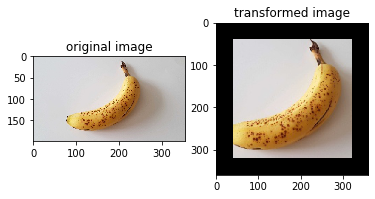
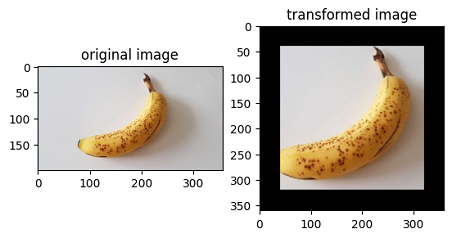
update en file and image in tutorials

diff --git a/tutorials/source_en/advanced/dataset/eager.md b/tutorials/source_en/advanced/dataset/eager.md
@@ -1,72 +1,67 @@
-# Lightweight Data Processing
-
 <a href="https://gitee.com/mindspore/docs/blob/master/tutorials/source_en/advanced/dataset/eager.md" target="_blank"><img src="https://mindspore-website.obs.cn-north-4.myhuaweicloud.com/website-images/master/resource/_static/logo_source_en.png"></a>
 
-When resource conditions permit, in order to pursue higher performance, data augmentation operators are generally executed in the data pipeline mode.
+# Lightweight Data Processing
 
-The biggest character of execution based on data pipelinemode users have to define the `map` operator. As shown in the figure below, the `Resize`, `Crop`, `HWC2CHW` operators are scheduled by the `map` operator, which is responsible for starting and executing the given data augmentation operators, and mapping and transforming the data of the data pipeline.
+When resource conditions permit, in order to pursue higher performance, data transforms are generally executed in the data pipeline mode.
+
+The biggest character of execution based on pipeline mode users have to define the `map` operator. As shown in the figure below, the `Resize`, `Crop`, `HWC2CHW` operators are scheduled by the `map`, which is responsible for starting and executing the given transform, and mapping and transforming the data of Pipeline.
 
 ![pipelinemode1](./images/pipeline_mode_en.jpeg)
 
-Although constructing a data pipeline can process input data in batches, the API design of the data pipeline requires the user to start from constructing the input source, and gradually defines the individual processing operators in the data pipeline. Only when defining the `map` will it involve data augmentation operators that are highly related to the user input data.
+Although constructing a data pipeline can process input data in batches, the API design of the data pipeline requires the user to start from constructing the input source, and gradually defines the individual processing operators in the data pipeline. Only when defining the `map`, will it involve data augmentation operators that are highly related to the user input data.
 
 Undoubtedly, users only want to focus on the code that is most relevant to them, but other codes with less relevance add unnecessary burdens to the user throughout the code scene.
 
 Therefore, MindSpore provides a lightweight data processing way, called Eager mode.
 
-In the Eager mode, the execution of data augmentations will not rely on the `map` operator. Instead, the data augmentation operator is executed in the form of a functional call. The code will be simpler and the results are obtained immediately. It is recommended to be used in lightweight scenarios such as small data augmentation experiments and model inference.
+In the Eager mode, the execution of Transforms will not rely on constructing the data pipeline `map`. Instead, Transforms is executed in the form of a functional call. The code will be simpler and the results are obtained immediately. It is recommended to be used in lightweight scenarios such as small data augmentation experiments and model inference.
 
 ![eagermode1](./images/eager_mode_en.jpeg)
 
-MindSpore currently supports executing various data augmentation operators in the Eager mode, as shown below. For more details, please refer to the API documentation.
+MindSpore currently supports executing various Transforms in the Eager mode, as shown below. For more details, please refer to the API documentation.
 
 - [vision module](https://www.mindspore.cn/docs/en/master/api_python/mindspore.dataset.vision.html)
-- Submodule transforms, an image augmentation operator implemented based on OpenCV/Pillow.
+
+    - Submodule transforms, data transform implemented based on OpenCV/Pillow.
 
 - [text module](https://www.mindspore.cn/docs/en/master/api_python/mindspore.dataset.text.html)
-- Submodule transforms, text processing operators implemented based on Jieba, ICU4C etc.
+
+    - Submodule transforms, data transform implemented based on Jieba, ICU4C, etc.
 
 - [transforms module](https://www.mindspore.cn/docs/en/master/api_python/mindspore.dataset.transforms.html)
-- Submodule transforms, a general-purpose data augmentation operator implemented based on C++/Python/NumPy.
+
+    - Submodule transforms, general-purpose data transform implemented based on C++/Python/NumPy.
 
 ## Eager Mode
 
-The following is a brief introduction to the use of the Eager mode for data augmentation operators of each module. With the Eager mode, you only need to treat the data augmentation operator itself as an executable function.
+The following is a brief introduction to the use of the Eager mode for each Transforms module. With the Eager mode, you only need to treat Transform itself as an executable function.
 
 ### Data Preparation
 
 The following sample code downloads the image data to the specified location.
 
 ```python
-import os
-import requests
+from download import download
 
-requests.packages.urllib3.disable_warnings()
+url = "https://obs.dualstack.cn-north-4.myhuaweicloud.com/mindspore-website/notebook/datasets/banana.jpg"
+download(url, './banana.jpg', replace=True)
+```
 
-def download_dataset(dataset_url, path):
-    filename = dataset_url.split("/")[-1]
-    save_path = os.path.join(path, filename)
-    if os.path.exists(save_path):
-        return
-    if not os.path.exists(path):
-        os.makedirs(path)
-    res = requests.get(dataset_url, stream=True, verify=False)
-    with open(save_path, "wb") as f:
-        for chunk in res.iter_content(chunk_size=512):
-            if chunk:
-                f.write(chunk)
-    print("The {} file is downloaded and saved in the path {} after processing".format(os.path.basename(dataset_url), path))
+```text
+Downloading data from https://obs.dualstack.cn-north-4.myhuaweicloud.com/mindspore-website/notebook/datasets/banana.jpg (17 kB)
 
-download_dataset("https://obs.dualstack.cn-north-4.myhuaweicloud.com/mindspore-website/notebook/datasets/banana.jpg", ".")
+file_sizes: 100%|███████████████████████████| 17.1k/17.1k [00:00<00:00, 883kB/s]
+Successfully downloaded file to ./banana.jpg
+'./banana.jpg'
 ```
 
 ### vision
 
-This example will use operators from the `mindspore.dataset.vision` module to transform a given image.
+This example will use Transform in the `mindspore.dataset.vision` module to transform a given image.
 
-You only need to focus on what data augmentations have to use, not any code for the data pipeline.
+You only need to focus on what kind of data transform have to use, not any code for the data pipeline.
 
-The Eager mode of the vision operator supports `numpy.array` or `PIL.Image` type data as input parameters.
+The Eager mode of the Vision Transform supports `numpy.array` or `PIL.Image` type data as input parameters.
 
 ```python
 import numpy as np
@@ -102,8 +97,6 @@ plt.title("transformed image")
 plt.show()
 ```
 
-The output is as follows:
-
 ```text
 Image.type: <class 'PIL.Image.Image'>, Image.shape: (356, 200)
 Image.type: <class 'PIL.Image.Image'>, Image.shape: (569, 320)
@@ -111,15 +104,13 @@ Image.type: <class 'PIL.Image.Image'>, Image.shape: (280, 280)
 Image.type: <class 'PIL.Image.Image'>, Image.shape: (360, 360)
 ```
 
-The following shows the processed image.
-
 ![eager_mode](./images/eager_mode.png)
 
 ### text
 
-This example will transform the given text by using the `tranforms` operator in the `text` module.
+This example will transform the given text by using the Transforms in the `text` module.
 
-Eager mode of the text operator supports `numpy.array` type data as input parameters.
+Eager mode of Text Transforms supports `numpy.array` type data as input parameters.
 
 ```python
 import mindspore.dataset.text.transforms as text
@@ -144,9 +135,9 @@ ToNumber result: [123456], type: <class 'numpy.int32'>
 
 ### transforms
 
-This example will transform the given data by using the `c_tranforms`  operator in the `transforms` module.
+This example will transform the given data by using the general Transform in the `transforms` module.
 
-Eager mode of transforms operator supports `numpy.array` type data as input parameters.
+Eager mode of general Transform supports `numpy.array` type data as input parameters.
 
 ```python
 import numpy as np
